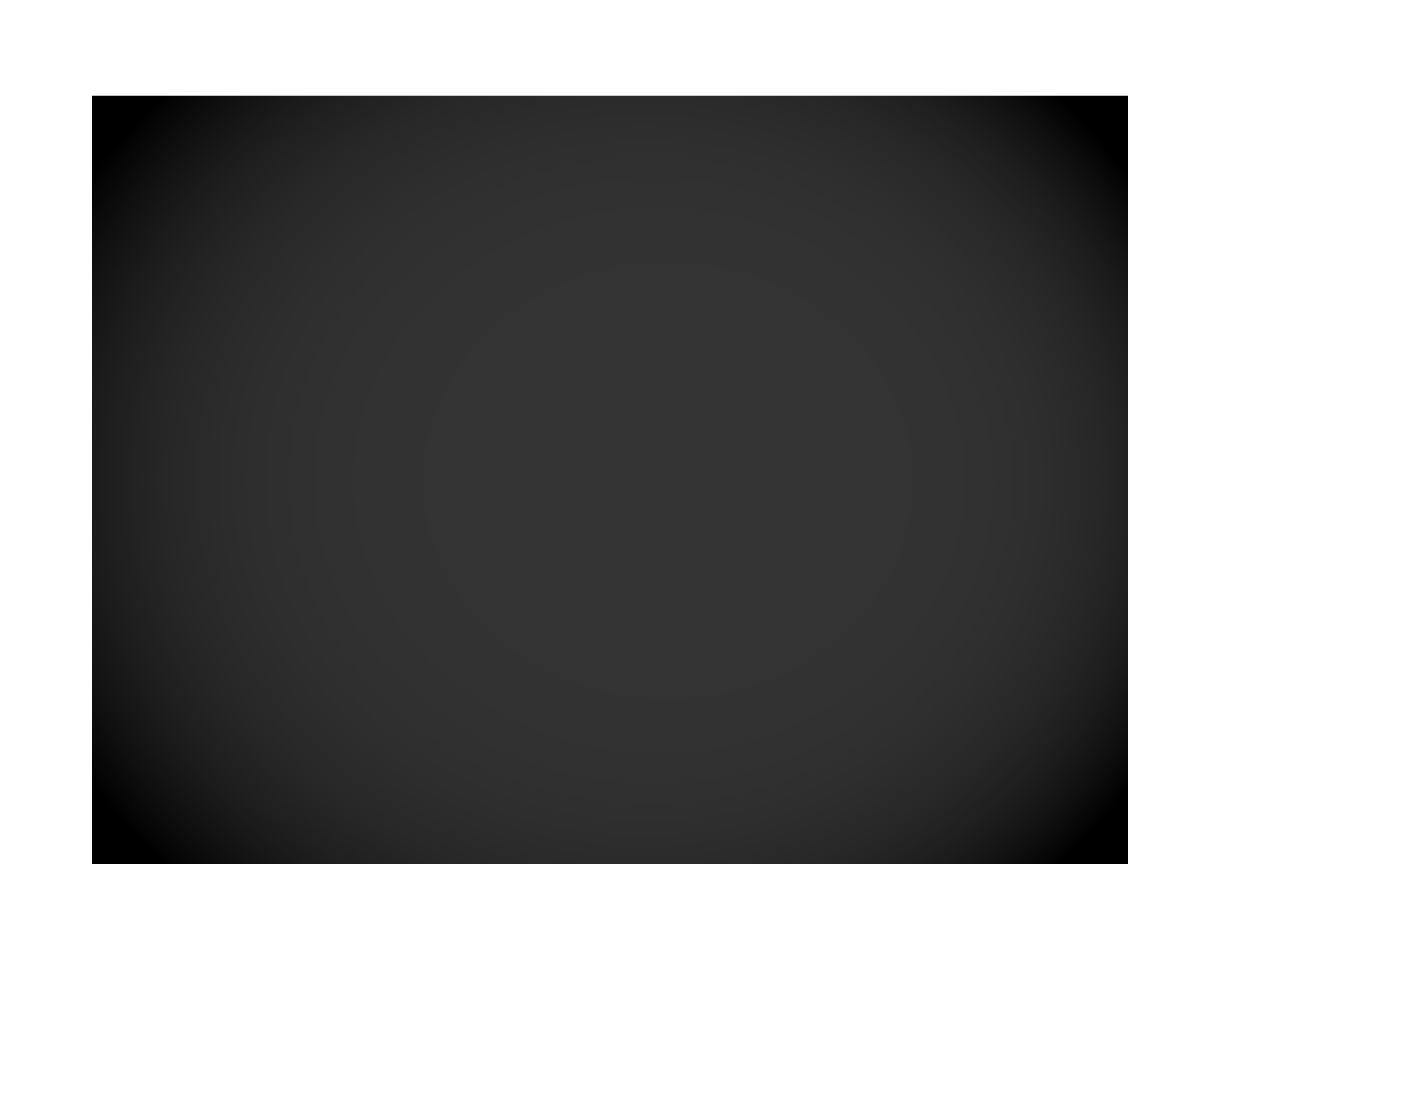
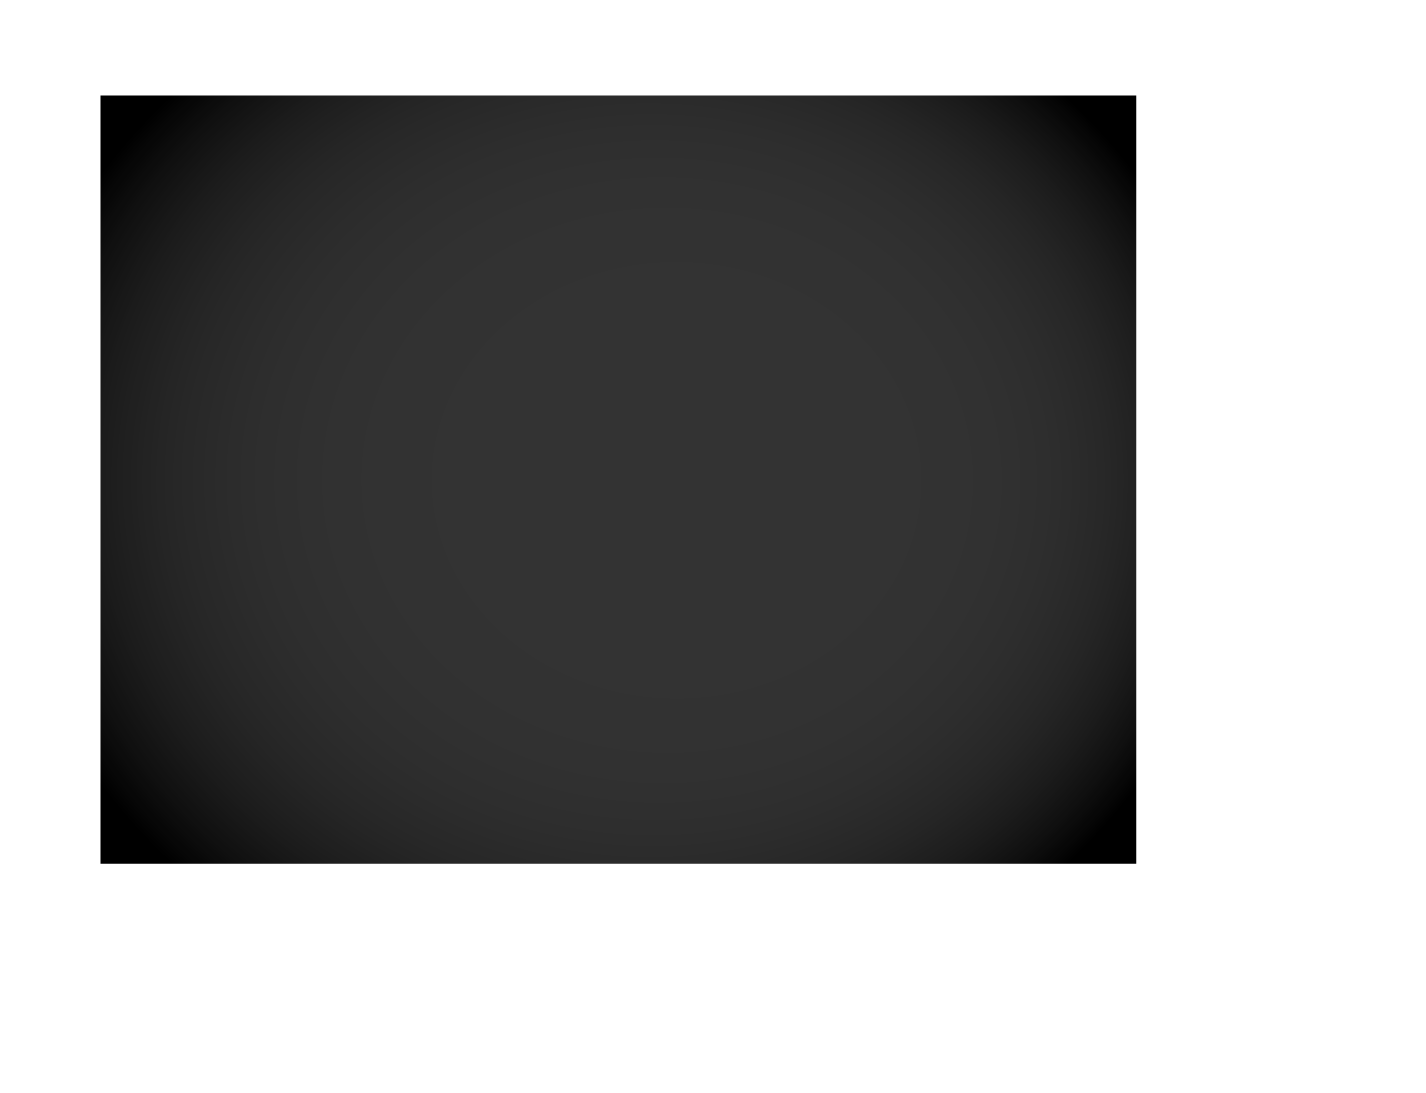
chore(tv): delete stale underscored title-cards + base re-export + docs
- Delete 7 stale underscored title-card files (title_card_base.webp,
  title_card_The-Backend(_bg).webp, title_card_no-bhad-codes(_bg).webp,
  title_card_hedgewitch(_bg).webp). All code / data now points at the
  hyphenated set, so these were unreferenced.
- title-card_base.webp re-exported. Artwork now bbox (100, 95, 1137,
  864) — closer to the per-project cards' (106, 95, 1131, 864) but
  still ~6px wider on each side. Visible alignment jump reduced but
  not eliminated; tracked as a follow-up TODO.

CURRENT_WORK.md
- Reconcile Outstanding TODOs with what's actually shipped: VOLUME
  wiring, per-project bg re-exports, arrow-key root cause, channel-
  change static + channel-up beep, mobile TV responsive, channel 01
  Prevue-Guide redesign — all marked done with one-line writeups.
- Removed stale references to the underscored filename naming.
- New TODO: re-align title-card_base.webp artwork to match per-project
  bbox so cycling between guide and project channels has zero jump.

Changed region(s): [[0.7714, 0.0933, 0.8022, 0.8088], [0.0617, 0.0933, 0.0926, 0.8088]]

diff --git a/CURRENT_WORK.md b/CURRENT_WORK.md
@@ -138,15 +138,16 @@ The projects page renders a vintage TV with a channel-guide screen. Channel 01 i
 
 ### Outstanding TODOs
 
-- [x] **Wire up the TV's physical buttons** — POWER toggles screen on/off (off = title-card base shows, channel list + LED hidden); CHANNEL ▲▼ cycles channels mirroring wheel/arrow keys; VOLUME ▲▼ wired but no-op (reserved for future sound).
-- [ ] **Wire VOLUME ▼▲ buttons** to control something — TBD what (sound effects? panel hold-time multiplier? brightness?).
-- [ ] **Re-export the per-project `*_bg.webp` files at 1426×1093** (matching the new `title_card_base.webp` and `vintage_tv.webp`) so all bg layers stack at `top:0; left:0; width:100%; height:100%` without the percentage math. The new `title_card_base.webp` is already 1426×1093; the per-project bgs (`title_card_no-bhad-codes_bg.webp`, etc.) are still at 1037×769 — until they match, the centering math has to stay.
+- [x] **Wire up the TV's physical buttons** — POWER toggles screen on/off; CHANNEL ▲▼ cycles channels mirroring wheel/arrow keys; VOLUME ▲▼ wired to tv-sfx (5-step volume, persisted to localStorage).
+- [x] **Re-export TV assets at 1426×1093** — all per-project bgs, composed title cards, channel digit overlays, and title-card base now exported at full TV-frame canvas with hyphenated filenames. Stacks at `inset:0; width/height:100%`, no centering math. Old underscored set deleted.
+- [ ] **Re-align `title-card_base.webp` artwork** — base bbox `(100, 95, 1137, 864)` is ~6px wider on each side than the per-project cards `(106, 95, 1131, 864)`. Causes a small visible jump when cycling between channel 01 and 02+. Re-export from same artboard origin as the project cards so artwork lands at x:106-1131.
 - [x] **Update "No Bhad Codes" case study copy** — keyFeature `"CRT TV hover preview"` replaced, scroll-map + TV channel guide added, approach paragraph rewritten to mention signature features.
 - [x] **Verify Hedgewitch and The Backend case studies** — Backend feature claims verified against actual code (`013_magic_link.sql`, `message-service.ts`, Chart.js, node-cron, etc.). Hedgewitch is a separate project — copy reads accurately.
-- [x] **TV channel copy condensed** — added `tv` namespace per project (`description`, `challenge`, `approach`, `keyFeatures`, `results`). TV reads from `tv.X ?? X`. All three documented projects have curated TV copy now.
-- [ ] **Trace root cause of arrow keys triggering native page scroll** on the projects page. Currently mitigated with a backup `preventDefault` listener in `projects.ts`, but page-transition's keyboard handler should be catching them first — investigate why focus / canNavigate / event ordering isn't suppressing default in some cases.
-- [ ] **Add sound effects** (optional / future) — channel-change static crackle, channel-up beep, etc. Audio assets needed.
-- [ ] **Mobile fallback** — TV is currently desktop-only (`.crt-tv` is hidden on mobile). Need a mobile equivalent or revert to a card list on small screens.
+- [x] **TV channel copy condensed** — added `tv` namespace per project. TV reads from `tv.X ?? X`. All three documented projects have curated TV copy.
+- [x] **Trace root cause of arrow-key native page scroll** — `page-transition.ts:handleKeydown` only called `preventDefault` after navigation gates (`isTransitioning`, `!introComplete`, `canNavigate`); during those windows the browser native-scrolled. Fix: moved `preventDefault` before the gates so any arrow key on a managed page is unconditionally swallowed (form inputs still opt out). Backup window-listener in `projects.ts` and the `isOnProjectsPage()` helper that supported it have been removed.
+- [x] **Channel-change static crackle + channel-up beep** — implemented as `src/modules/audio/tv-sfx.ts` (procedural WebAudio synthesis, no asset files). Static = filtered white-noise burst, beep = 880Hz sine. Master gain via 5-step volume tied to VOLUME ▲▼ buttons.
+- [x] **Mobile TV** — TV is fully responsive at all widths; channel-rows visible with smaller typography, button hit area extended, full-width on phones. No mobile fallback needed.
+- [x] **Channel 01 redesigned as Prevue Guide layout** — top split (brand info + glowing-eye avatar with inlined eye-glow filter); bottom slow ticker of project rows (rendered twice, GSAP translates the inner ul up at ~16 px/sec for a seamless loop).
 - [ ] **Documentation: refresh `MAIN_SITE_DESIGN.md` projects section** to reflect the new TV channel architecture in more depth (panel cycle, button wiring, channel index model). Currently only the table rows were updated.
 
 ### Recent shipped (this session)
